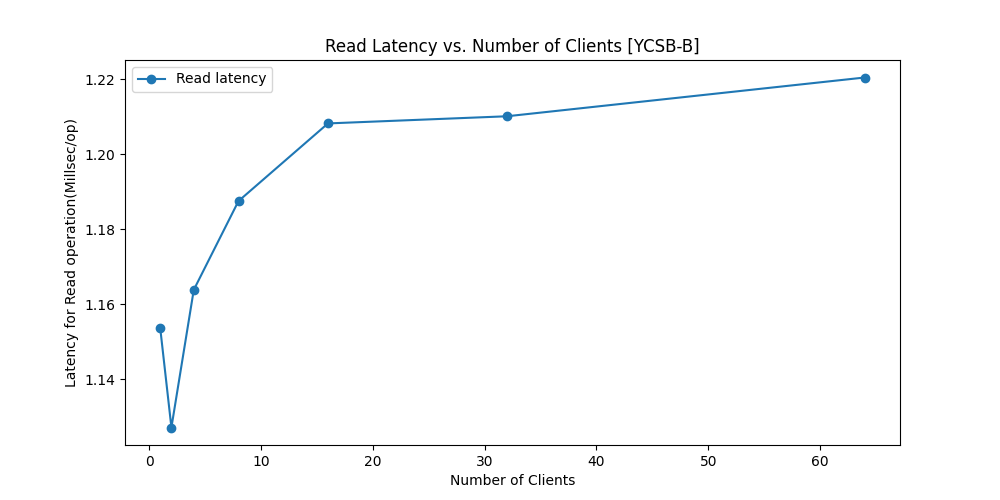
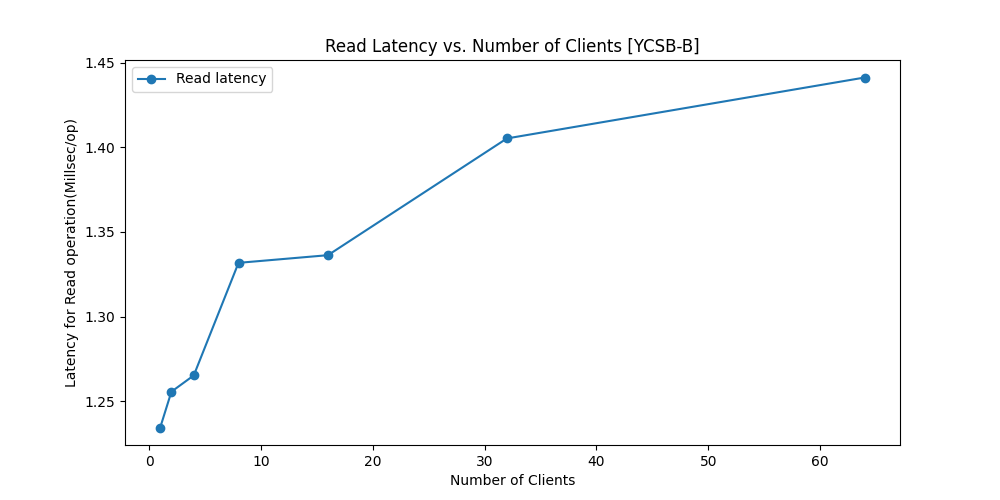
w

diff --git a/plot/plotlatency.py b/plot/plotlatency.py
@@ -1,106 +1,52 @@
 import matplotlib.pyplot as plt
+import japanize_matplotlib
 
 # Data points for YCSB-A
 x_a = [1, 2, 4, 8, 16, 32, 64]
-Aread_time = [1.167986, 1.110566, 1.177052, 1.160599, 1.173142, 1.166381, 1.248513]
-Awrite_time = [6.062137, 7.282872, 13.123879, 27.224526, 55.740565, 112.683822, 226.901277]
-Atotal_time = [3.625986, 4.213716, 7.121323, 14.154026, 28.570923, 56.93856, 115.006961]
-
-
-
-
-
+Aread_time = [1.288861, 1.351835, 1.400460, 1.396314, 1.368487, 1.354501, 1.462627]
+Awrite_time = [9.006404, 11.966047, 23.411631, 48.891073, 96.797480, 188.424857, 402.058237]
+Atotal_time = [10.295265, 13.317882, 24.811091, 50.287387, 98.165967, 189.779358, 403.510864]
 
 # Creating the plot for YCSB-A
 plt.figure(figsize=(10, 5))
-plt.plot(x_a, Awrite_time, marker='o', label='Write latency')
-plt.title('Latency vs. Number of Clients [YCSB-A]')
-plt.xlabel('Number of Clients')
-plt.ylabel('Latency for Write operation(Millsec/op)')
+plt.plot(x_a, Atotal_time, marker='o', label='latency')
+for i, txt in enumerate(x_a):
+    plt.annotate(txt, (x_a[i], Atotal_time[i]), xytext=(0, 5), textcoords='offset points', ha='center')
+plt.xlabel('クライアントの数')
+plt.ylabel('YCSB-Aにおける\n一命令あたりのレイテンシー(Millsec/命令)')
 plt.legend()
-plt.savefig('/home/Jamiroq/Documents/GitHub/myRabia/plot/latencyA/Wlatency_plot-A.png')
+plt.savefig('/home/Jamiroq/Documents/GitHub/myRabia/plot/latencyA/latency_plot-A.png')
 plt.close()
 
-plt.figure(figsize=(10, 5))
-plt.plot(x_a, Aread_time, marker='o', label='Read latency')
-plt.title('Latency vs. Number of Clients [YCSB-A]')
-plt.xlabel('Number of Clients')
-plt.ylabel('Latency for Read operation(Millsec/op)')
-plt.legend()
-plt.savefig('/home/Jamiroq/Documents/GitHub/myRabia/plot/latencyA/Rlatency_plot-A.png')
-plt.close()
-
+# Data points for YCSB-B
 x_b = [1, 2, 4, 8, 16, 32, 64]
-Bread_time = [
-    1.153677,
-    1.127185,
-    1.163875,
-    1.187547,
-    1.208233,
-    1.210139,
-    1.220473
-]
+Bread_time = [1.234441, 1.255589, 1.265219, 1.331707, 1.336240, 1.405194, 1.441195]
+Bwrite_time = [8.192606, 9.434817, 12.405131, 24.326760, 48.578278, 159.547959, 355.424451]
+Btotal_time = [9.427047, 10.690406, 13.670350, 25.658467, 49.914518, 160.953153, 356.865646]
 
-Bwrite_time = [
-    6.458360,
-    6.711459,
-    7.661122,
-    12.746564,
-    40.487863,
-    101.125989,
-    217.936855
-]
-
-Btotal_time = [
-    1.425998,
-    1.409084,
-    1.484194,
-    1.760910,
-    3.168614,
-    6.220303,
-    12.082078
-]
-
-
-# Creating the plot for YCSB-A
+# Creating the plot for YCSB-B
 plt.figure(figsize=(10, 5))
-plt.plot(x_b, Bread_time, marker='o', label='Read latency')
-plt.title('Read Latency vs. Number of Clients [YCSB-B]')
-plt.xlabel('Number of Clients')
-plt.ylabel('Latency for Read operation(Millsec/op)')
+plt.plot(x_b, Btotal_time, marker='o', label='latency')
+for i, txt in enumerate(x_b):
+    plt.annotate(txt, (x_b[i], Btotal_time[i]), xytext=(0, 5), textcoords='offset points', ha='center')
+plt.xlabel('クライアントの数')
+plt.ylabel('YCSB-Bにおける\n一命令あたりのレイテンシー(Millsec/命令)')
 plt.legend()
-plt.savefig('/home/Jamiroq/Documents/GitHub/myRabia/plot/latencyB/Rlatency_plot-B.png')
+plt.savefig('/home/Jamiroq/Documents/GitHub/myRabia/plot/latencyB/latency_plot-B.png')
 plt.close()
 
-plt.figure(figsize=(10, 5))
-plt.plot(x_b, Bwrite_time, marker='o', label='Write latency')
-plt.title('Write Latency vs. Number of Clients [YCSB-B]')
-plt.xlabel('Number of Clients')
-plt.ylabel('Latency for Write operation(Millsec/op)')
-plt.legend()
-plt.savefig('/home/Jamiroq/Documents/GitHub/myRabia/plot/latencyB/Wlatency_plot-B.png')
-plt.close()
-
-
+# Data points for YCSB-C
 x_c = [1, 2, 4, 8, 16, 32, 64]
+Cread_time = [1.146807, 1.170556, 1.195731, 1.250501, 1.362784, 1.721079, 2.638301]
+write_latency_ns = [0, 0, 0, 0, 0, 0, 0]  # すべてのクライアント数で0
 
-Cread_time = [
-    1.150339,
-    1.096976,
-    1.114770,
-    1.135267,
-    1.251066,
-    1.659278,
-    2.410071
-]
-
+# Creating the plot for YCSB-C
 plt.figure(figsize=(10, 5))
-plt.plot(x_c, Cread_time, marker='o', label='Read latency')
-plt.title('Read Latency vs. Number of Clients [YCSB-C]')
-plt.xlabel('Number of Clients')
-plt.ylabel('Latency for Read operation(Millsec/op)')
+plt.plot(x_c, Cread_time, marker='o', label='latency')
+for i, txt in enumerate(x_c):
+    plt.annotate(txt, (x_c[i], Cread_time[i]), xytext=(0, 5), textcoords='offset points', ha='center')
+plt.xlabel('クライアントの数')
+plt.ylabel('YCSB-Cにおける\n一命令あたりのレイテンシー(Millsec/命令)')
 plt.legend()
-plt.savefig('/home/Jamiroq/Documents/GitHub/myRabia/plot/latencyC/Rlatency_plot-C.png')
+plt.savefig('/home/Jamiroq/Documents/GitHub/myRabia/plot/latencyC/latency_plot-C.png')
 plt.close()
-
-

diff --git a/plot/plot.py b/plot/plot.py
@@ -72,15 +72,28 @@ x_a = [1, 2, 4, 8, 16, 32, 64]
 y_a= [259.17,407.36,461.94,457.64,461.21,480.75,483.78]
 x_a_geo = [1, 2, 4, 8, 16, 32, 64]
 y_a_geo = [1.04,1.40,1.72,1.88,2.68,3.42,5.65]
+x_b = [1, 2, 4, 8, 16, 32, 64]
+y_b = [763.34,1484.16,2767.86,4613.38,4932.94,4972.38,4917.45]
+x_b_geo = [1, 2, 4, 8, 16, 32, 64]
+y_b_geo = [5.70,9.52,14.17,18.17,23.29,33.78,51.71]
+x_c = [1, 2, 4, 8, 16, 32, 64]
+y_c = [944.33,1863.22,3653.79,7282.32,13235.30,19410.69,28014.23]
+
+x_c_geo = [1, 2, 4, 8, 16, 32, 64]
+y_c_geo = [9.42,16.22,29.32,57.26,110.58,219.58,434.26]
+
+
 
 plt.figure(figsize=(10, 5))
 #plt.plot(x_a, y_a, marker='o', label='YCSB-A Normal')
 plt.plot(x_a_geo, y_a_geo, marker='o', label='YCSB-A when Geo-Distributed')
-plt.title('Throughput vs. Number of Clients [YCSB-A]')
+plt.plot(x_b_geo, y_b_geo, marker='o', label='YCSB-B when Geo-Distributed')
+plt.plot(x_c_geo, y_c_geo, marker='o', label='YCSB-C when Geo-Distributed')
+plt.title('Throughput vs. Number of Clients [YCSB-A,B,C]')
 plt.xlabel('Number of Clients')
 plt.ylabel('Throughput (ops/sec)')
 plt.legend()
-plt.savefig('/home/Jamiroq/Documents/GitHub/myRabia/plot/throughput_plot-A_geo.png')
+plt.savefig('/home/Jamiroq/Documents/GitHub/myRabia/plot/throughput_plot-_geo.png')
 plt.close()
 
 

diff --git a/GClient/GClient.go b/GClient/GClient.go
@@ -7,7 +7,7 @@ import (
 )
 
 var StateMachine map[string]int = make(map[string]int)
-var IPList = []string{"52.64.108.149", "52.65.112.127", "52.62.115.28"}
+var IPList = []string{"52.64.108.149", "52.65.112.127", "52.62.115.28","3.106.167.230","13.54.181.252"}
 var replicaNum = 3
 
 type Report struct {
